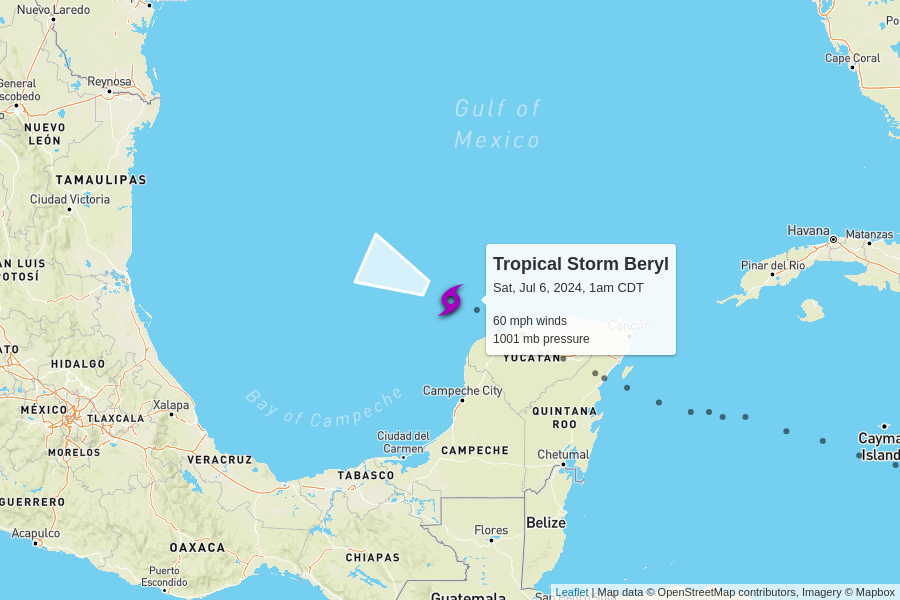
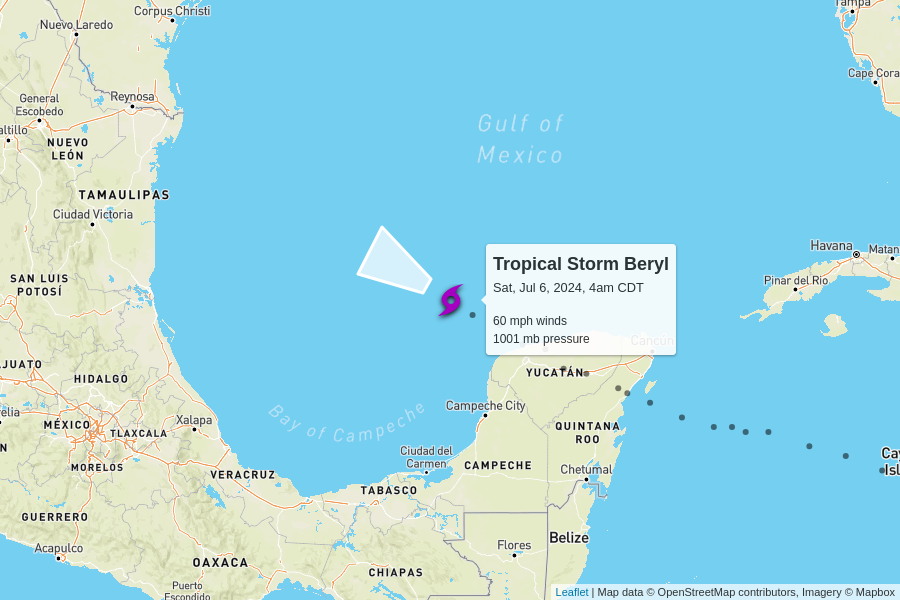
automatic update

diff --git a/docs/index.html b/docs/index.html
@@ -102,7 +102,7 @@
         <td colspan="6" class="storm category-0" >
           <h2>
             Tropical Storm Beryl
-            <p class="updated">last updated <span data-time>2024-07-06T06:00:00.000Z</span></p>
+            <p class="updated">last updated <span data-time>2024-07-06T09:00:00.000Z</span></p>
           </h2>
         </td>
       </tr>
@@ -118,11 +118,11 @@
       <tr>
         <td class="spacer"></td>
         <td>60 mph<br>0 mph since last update</td>
-        <td>1001 mb<br>+5 mb since last update</td>
+        <td>1001 mb<br>0 mb since last update</td>
         <td>
-          13 mph to the west-northwest
+          12 mph to the west-northwest
           <br/>
-          <span style="display: inline-block; font-size: 1.5em; transform: rotate(295deg);">↑</span>
+          <span style="display: inline-block; font-size: 1.5em; transform: rotate(300deg);">↑</span>
         </td>
         <td><a href="https://raw.githubusercontent.com/mgwalker/atlantic-hurricanes/main/data/csv/AL022024.csv">AL022024.csv</a></td>
         <td><a href="https://www.nhc.noaa.gov/archive/2024/BERYL.shtml?">NHC advisories</a></td>
